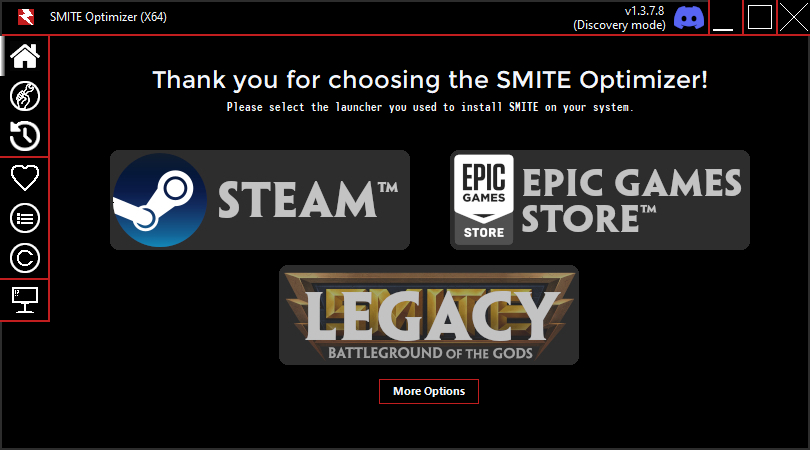
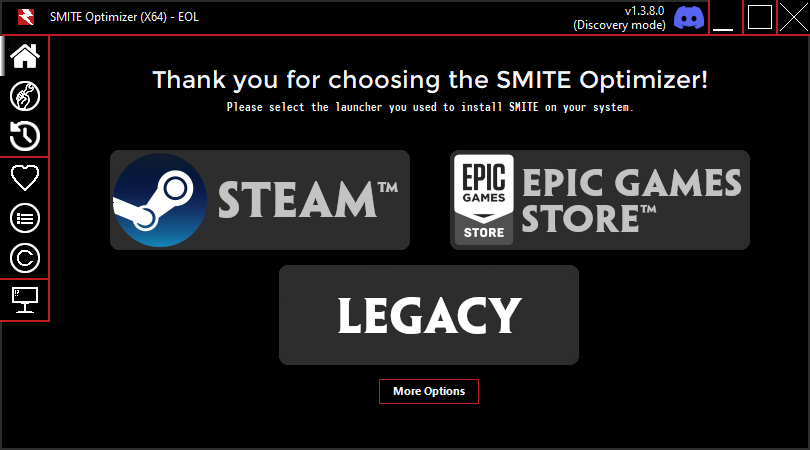
Update

Changed region(s): [[0.3395, 0.5911, 0.7099, 0.8089], [0.8025, 0.0, 0.8333, 0.0311], [0.216, 0.0311, 0.2469, 0.0622]]

diff --git a/index.html b/index.html
@@ -1,10 +1,10 @@
 [Version]
-Version="1.3.7.9"
+Version="1.3.8.0"
 
 [Download]
-Download="https://github.com/MeteorTheLizard/SMITE-Optimizer/releases/download/v1.3.7.8/SMITE.Optimizer.32Bit.exe"
-Download32="https://github.com/MeteorTheLizard/SMITE-Optimizer/releases/download/v1.3.7.8/SMITE.Optimizer.32Bit.exe"
-Download64="https://github.com/MeteorTheLizard/SMITE-Optimizer/releases/download/v1.3.7.8/SMITE.Optimizer.64Bit.exe"
+Download="https://github.com/MeteorTheLizard/SMITE-Optimizer/releases/download/v1.3.8.0/SMITE.Optimizer.32Bit.exe"
+Download32="https://github.com/MeteorTheLizard/SMITE-Optimizer/releases/download/v1.3.8.0/SMITE.Optimizer.32Bit.exe"
+Download64="https://github.com/MeteorTheLizard/SMITE-Optimizer/releases/download/v1.3.8.0/SMITE.Optimizer.64Bit.exe"
 
 [Message]
 Message="Overhaul, new modern UI and much more!"
